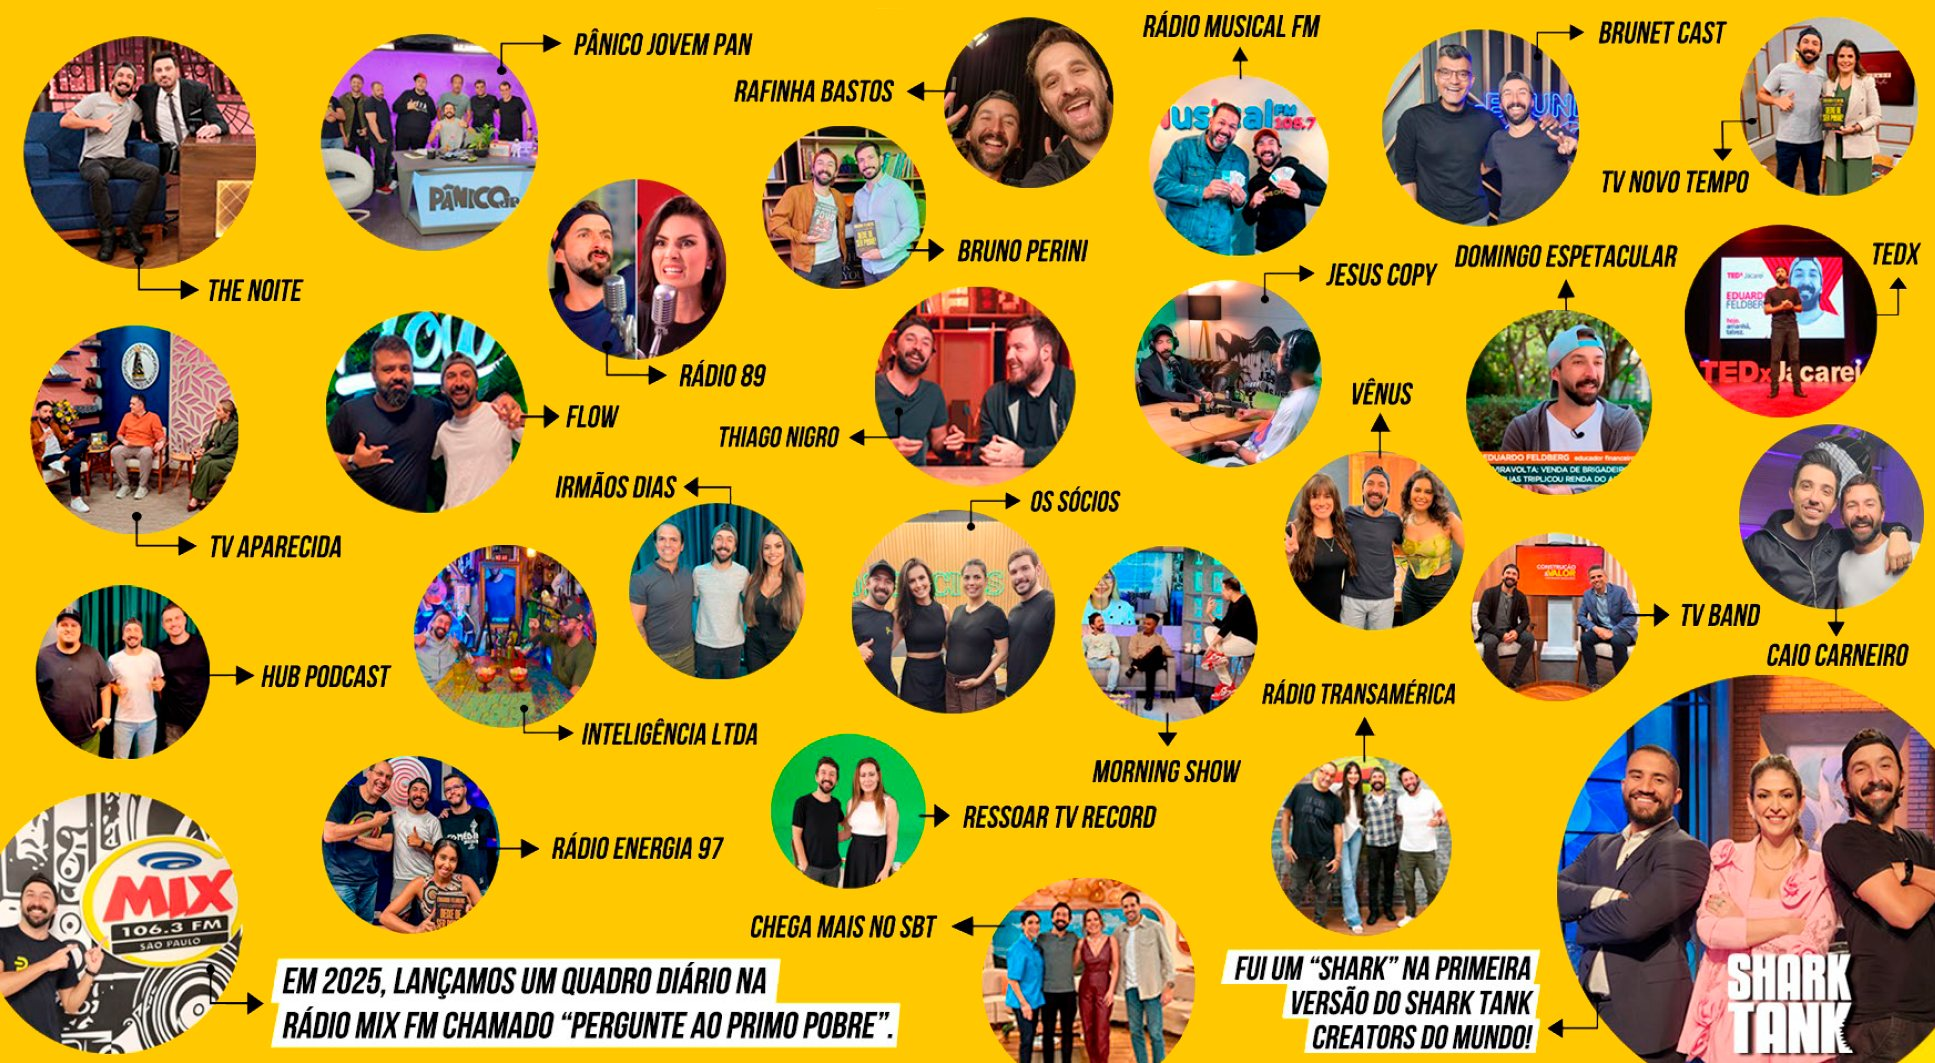
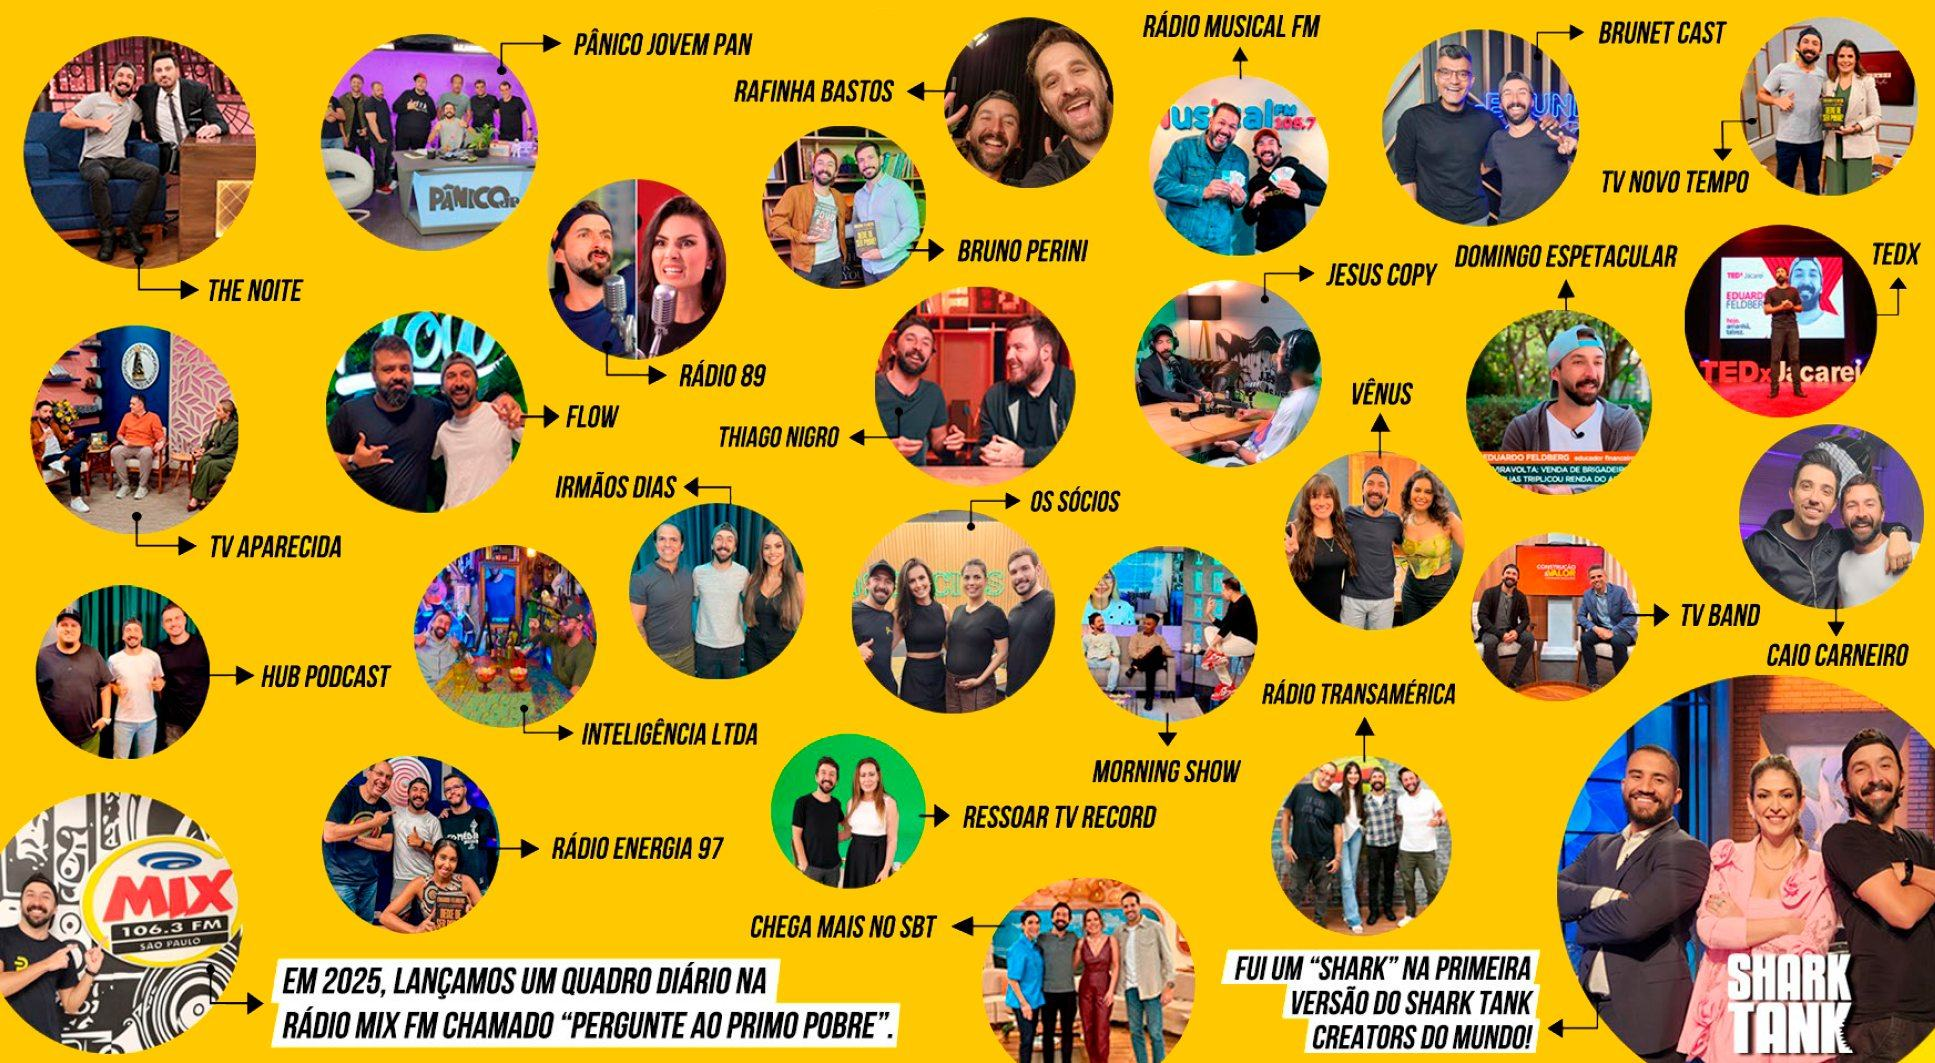
SEO: título, descrição, Open Graph, dados estruturados, sitemap, robots e ícones
Claude-Session: https://claude.ai/code/session_01D18u6FpXvFfUksCkT25kHA

diff --git a/index.html b/index.html
@@ -3,9 +3,29 @@
 <head>
 <meta charset="utf-8">
 <meta name="viewport" content="width=device-width, initial-scale=1, viewport-fit=cover">
-<title>Primo Pobre</title>
-<meta name="claude:viewport-fit-sides" content="cover">
-<meta name="description" content="Primo Pobre — educação financeira sem enrolação, com Eduardo Feldberg.">
+<title>Primo Pobre | Eduardo Feldberg – Educação financeira para pobres</title>
+<meta name="description" content="Primo Pobre, de Eduardo Feldberg: o maior canal de finanças para pobres do mundo. Educação financeira, sair das dívidas, reserva de emergência e investimentos, 100% grátis.">
+<meta name="author" content="Eduardo Feldberg">
+<meta name="robots" content="index, follow, max-image-preview:large">
+<meta name="theme-color" content="#0B0B0A">
+<link rel="canonical" href="https://www.canalprimopobre.com.br/">
+<link rel="icon" type="image/png" sizes="32x32" href="img/favicon-32.png">
+<link rel="apple-touch-icon" href="img/apple-touch-icon.png">
+<meta property="og:type" content="website">
+<meta property="og:locale" content="pt_BR">
+<meta property="og:site_name" content="Primo Pobre">
+<meta property="og:url" content="https://www.canalprimopobre.com.br/">
+<meta property="og:title" content="Primo Pobre – O maior canal de finanças para pobres do mundo">
+<meta property="og:description" content="Educação financeira e mudança de mentalidade para quem enjoou de ser pobre. Com Eduardo Feldberg.">
+<meta property="og:image" content="https://www.canalprimopobre.com.br/img/og-primopobre.jpg">
+<meta property="og:image:width" content="1200">
+<meta property="og:image:height" content="630">
+<meta property="og:image:alt" content="Primo Pobre: o maior canal de finanças para pobres do mundo">
+<meta name="twitter:card" content="summary_large_image">
+<meta name="twitter:title" content="Primo Pobre – O maior canal de finanças para pobres do mundo">
+<meta name="twitter:description" content="Educação financeira e mudança de mentalidade para quem enjoou de ser pobre.">
+<meta name="twitter:image" content="https://www.canalprimopobre.com.br/img/og-primopobre.jpg">
+<script type="application/ld+json">[{"@context": "https://schema.org", "@type": "WebSite", "name": "Primo Pobre", "url": "https://www.canalprimopobre.com.br/", "inLanguage": "pt-BR"}, {"@context": "https://schema.org", "@type": "Person", "name": "Eduardo Feldberg", "alternateName": "Primo Pobre", "url": "https://www.canalprimopobre.com.br/", "image": "https://www.canalprimopobre.com.br/img/sobre.jpg", "jobTitle": "Educador financeiro", "description": "Educador financeiro, youtuber e autor do livro Deixe de Ser Pobre. Criador do canal Primo Pobre.", "sameAs": ["https://www.youtube.com/primopobre", "https://www.instagram.com/eduardofeldberg", "https://www.tiktok.com/@eduardofeldberg", "https://www.facebook.com/eduardofeldberg", "https://www.youtube.com/@pobreshow", "https://www.instagram.com/institutoprimopobre/"], "award": ["Bicampeão do Prêmio iBest (2024 e 2025)", "Prêmio Influency.me 2025 – Melhor influenciador de finanças do Brasil", "Prêmio Pensadores do Futuro 2026"]}, {"@context": "https://schema.org", "@type": "Book", "name": "Deixe de Ser Pobre", "author": {"@type": "Person", "name": "Eduardo Feldberg"}, "inLanguage": "pt-BR", "datePublished": "2023-07", "image": "https://www.canalprimopobre.com.br/img/livro.png", "url": "https://amzn.to/489p7ZA"}]</script>
 <link rel="preconnect" href="https://fonts.googleapis.com">
 <link rel="preconnect" href="https://fonts.gstatic.com" crossorigin>
 <link rel="stylesheet" href="https://fonts.googleapis.com/css2?family=Archivo:wdth,wght@62..125,400..900&family=Figtree:wght@400;500;600;700&display=swap">
@@ -404,7 +424,6 @@ footer .verse-wrap{display:block;margin-top:26px;padding-top:20px;border-top:1px
 .mail .copyable{font-family:var(--display);font-stretch:100%;font-size:clamp(1.1rem,2.4vw,1.5rem);color:var(--gold)}
 .social span + span{display:block;margin-top:2px;opacity:.75}
 </style>
-<link rel="icon" href="img/logo-amarelo.png">
 </head>
 <body>
 <header class="nav">
@@ -437,7 +456,7 @@ footer .verse-wrap{display:block;margin-top:26px;padding-top:20px;border-top:1px
         </div>
       </div>
       <div class="hero-photo">
-        <img src="img/hero.jpg" alt="Eduardo Feldberg, o Primo Pobre, sorrindo e apontando para quem visita o site">
+        <img src="img/hero.jpg" fetchpriority="high" alt="Eduardo Feldberg, o Primo Pobre, sorrindo e apontando para quem visita o site">
       </div>
     </div>
   </section>

diff --git a/CLAUDE.md b/CLAUDE.md
@@ -6,3 +6,5 @@
 - O formulário de contato envia via FormSubmit para o e-mail do Eduardo.
 - Fotos novas: redimensionar (máx. ~1000px) antes de colocar em `img/`.
 - Textos do site são do próprio Eduardo: ao mudar, usar exatamente as palavras que ele mandar.
+
+- SEO: título/descrição/Open Graph/JSON-LD no <head>; `robots.txt` e `sitemap.xml` na raiz (atualizar `lastmod` em mudanças grandes). Imagem de compartilhamento: `img/og-primopobre.jpg` (1200×630).
